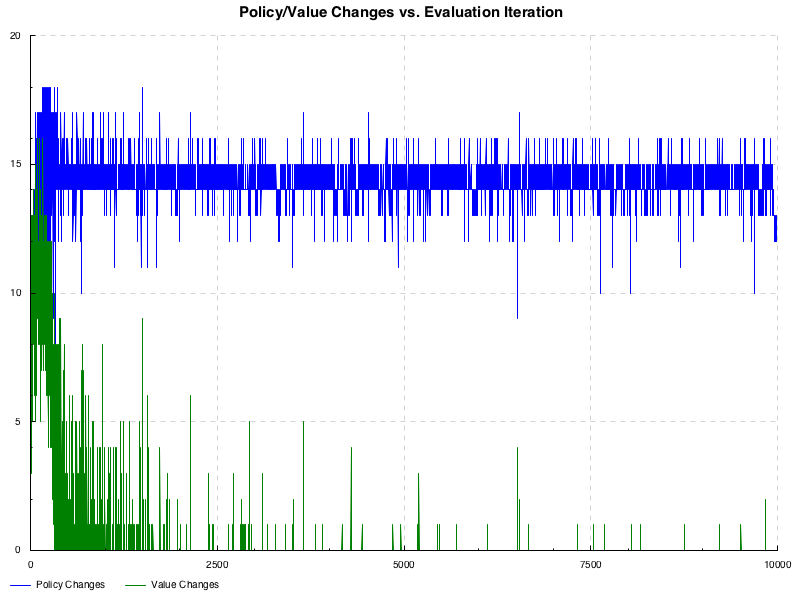
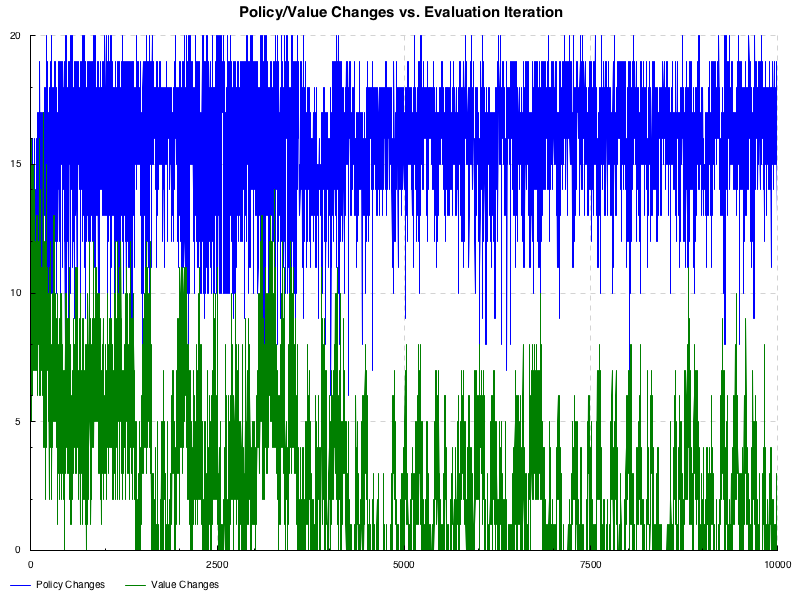
Windy grid w/ stochastic wind, but no kings moves.

diff --git a/windygrid.html b/windygrid.html
@@ -149,8 +149,8 @@ Original date: June 28, 2018</p>
 <a class="sourceLine" id="cb4-74" data-line-number="74">    <span class="kw">then</span> [s]</a>
 <a class="sourceLine" id="cb4-75" data-line-number="75">    <span class="kw">else</span> [ (min (gNumRows <span class="fu">-</span> <span class="dv">1</span>) (max <span class="dv">0</span> (r <span class="fu">+</span> dr <span class="fu">+</span> wr)), min (gNumCols <span class="fu">-</span> <span class="dv">1</span>) (max <span class="dv">0</span> (c <span class="fu">+</span> dc)))</a>
 <a class="sourceLine" id="cb4-76" data-line-number="76">         <span class="fu">|</span> wr <span class="ot">&lt;-</span> <span class="kw">if</span> wind <span class="fu">/=</span> <span class="dv">0</span></a>
-<a class="sourceLine" id="cb4-77" data-line-number="77">                    <span class="co">-- then [wind - 1, wind, wind + 1]</span></a>
-<a class="sourceLine" id="cb4-78" data-line-number="78">                    <span class="kw">then</span> [wind]  <span class="co">-- , wind, wind]</span></a>
+<a class="sourceLine" id="cb4-77" data-line-number="77">                    <span class="kw">then</span> [wind <span class="fu">-</span> <span class="dv">1</span>, wind, wind <span class="fu">+</span> <span class="dv">1</span>]</a>
+<a class="sourceLine" id="cb4-78" data-line-number="78">                    <span class="co">-- then [wind]  -- , wind, wind]</span></a>
 <a class="sourceLine" id="cb4-79" data-line-number="79">                    <span class="kw">else</span> [<span class="dv">0</span>]</a>
 <a class="sourceLine" id="cb4-80" data-line-number="80">         ]</a>
 <a class="sourceLine" id="cb4-81" data-line-number="81"> <span class="kw">where</span></a>
@@ -369,19 +369,19 @@ Original date: June 28, 2018</p>
 c|c|c|c|c|c|c|c|c|c
 |}
 \hline
- \downarrow  &amp;  \rightarrow  &amp;  \rightarrow  &amp;  \rightarrow  &amp;  \rightarrow  &amp;  \rightarrow  &amp;  \rightarrow  &amp;  \rightarrow  &amp;  \rightarrow  &amp;  \downarrow  \\
-\hline
  \rightarrow  &amp;  \rightarrow  &amp;  \rightarrow  &amp;  \rightarrow  &amp;  \rightarrow  &amp;  \rightarrow  &amp;  \rightarrow  &amp;  \rightarrow  &amp;  \rightarrow  &amp;  \downarrow  \\
 \hline
- \rightarrow  &amp;  \rightarrow  &amp;  \rightarrow  &amp;  \rightarrow  &amp;  \rightarrow  &amp;  \rightarrow  &amp;  \rightarrow  &amp;  \downarrow  &amp;  \rightarrow  &amp;  \downarrow  \\
+ \rightarrow  &amp;  \downarrow  &amp;  \rightarrow  &amp;  \rightarrow  &amp;  \rightarrow  &amp;  \rightarrow  &amp;  \rightarrow  &amp;  \rightarrow  &amp;  \rightarrow  &amp;  \downarrow  \\
+\hline
+ \downarrow  &amp;  \rightarrow  &amp;  \rightarrow  &amp;  \rightarrow  &amp;  \rightarrow  &amp;  \rightarrow  &amp;  \rightarrow  &amp;  \rightarrow  &amp;  \rightarrow  &amp;  \downarrow  \\
 \hline
 S &amp;  \rightarrow  &amp;  \rightarrow  &amp;  \rightarrow  &amp;  \rightarrow  &amp;  \rightarrow  &amp;  \rightarrow  &amp; G &amp;  \rightarrow  &amp;  \downarrow  \\
 \hline
- \rightarrow  &amp;  \rightarrow  &amp;  \rightarrow  &amp;  \rightarrow  &amp;  \rightarrow  &amp;  \rightarrow  &amp;  \uparrow  &amp;  \downarrow  &amp;  \leftarrow  &amp;  \leftarrow  \\
+ \rightarrow  &amp;  \rightarrow  &amp;  \rightarrow  &amp;  \rightarrow  &amp;  \rightarrow  &amp;  \rightarrow  &amp;  \rightarrow  &amp;  \downarrow  &amp;  \downarrow  &amp;  \downarrow  \\
 \hline
- \downarrow  &amp;  \rightarrow  &amp;  \rightarrow  &amp;  \rightarrow  &amp;  \rightarrow  &amp;  \uparrow  &amp;  \uparrow  &amp;  \downarrow  &amp;  \leftarrow  &amp;  \uparrow  \\
+ \uparrow  &amp;  \rightarrow  &amp;  \uparrow  &amp;  \uparrow  &amp;  \rightarrow  &amp;  \rightarrow  &amp;  \rightarrow  &amp;  \downarrow  &amp;  \rightarrow  &amp;  \leftarrow  \\
 \hline
- \downarrow  &amp;  \rightarrow  &amp;  \rightarrow  &amp;  \rightarrow  &amp;  \uparrow  &amp;  \uparrow  &amp;  \uparrow  &amp;  \uparrow  &amp;  \uparrow  &amp;  \leftarrow  \\
+ \leftarrow  &amp;  \rightarrow  &amp;  \rightarrow  &amp;  \rightarrow  &amp;  \rightarrow  &amp;  \rightarrow  &amp;  \rightarrow  &amp;  \downarrow  &amp;  \rightarrow  &amp;  \uparrow  \\
 \hline
 \end{array}\]</span>
 <h3 id="final-value-function">Final value function</h3>
@@ -389,19 +389,19 @@ S &amp;  \rightarrow  &amp;  \rightarrow  &amp;  \rightarrow  &amp;  \rightarrow
 c|c|c|c|c|c|c|c|c|c
 |}
 \hline
--15.8 &amp; -15.4 &amp; -14.4 &amp; -13.3 &amp; -12.1 &amp; -11.0 &amp; -9.8 &amp; -8.7 &amp; -7.5 &amp; -6.4 \\
+-50.9 &amp; -50.5 &amp; -40.4 &amp; -36.2 &amp; -34.1 &amp; -31.8 &amp; -31.0 &amp; -30.2 &amp; -29.5 &amp; -29.1 \\
 \hline
--16.3 &amp; -15.5 &amp; -14.4 &amp; -13.3 &amp; -12.1 &amp; -11.0 &amp; -9.8 &amp; -8.7 &amp; -7.5 &amp; -5.1 \\
+-43.4 &amp; -41.1 &amp; -39.6 &amp; -36.4 &amp; -32.9 &amp; -31.3 &amp; -30.2 &amp; -28.3 &amp; -27.8 &amp; -28.2 \\
 \hline
--16.7 &amp; -15.6 &amp; -14.4 &amp; -13.3 &amp; -12.1 &amp; -11.0 &amp; -9.8 &amp; -8.6 &amp; -6.4 &amp; -3.9 \\
+-40.7 &amp; -39.9 &amp; -36.9 &amp; -35.2 &amp; -32.9 &amp; -31.6 &amp; -29.3 &amp; -29.3 &amp; -27.9 &amp; -27.4 \\
 \hline
-S &amp; -15.6 &amp; -14.4 &amp; -13.3 &amp; -12.1 &amp; -10.9 &amp; -9.7 &amp; G &amp; -5.1 &amp; -2.6 \\
+S &amp; -37.3 &amp; -35.8 &amp; -34.2 &amp; -32.9 &amp; -32.8 &amp; -32.7 &amp; G &amp; -22.5 &amp; -26.4 \\
 \hline
--16.7 &amp; -15.6 &amp; -14.4 &amp; -13.3 &amp; -12.0 &amp; -10.7 &amp;  0.0 &amp;  0.0 &amp;  0.0 &amp; -1.4 \\
+-42.0 &amp; -39.8 &amp; -37.3 &amp; -35.0 &amp; -34.5 &amp; -35.0 &amp; -16.7 &amp; -14.9 &amp; -25.6 &amp; -24.7 \\
 \hline
--16.0 &amp; -15.2 &amp; -14.1 &amp; -13.0 &amp; -11.6 &amp;  0.0 &amp;  0.0 &amp; -0.6 &amp; -1.5 &amp; -2.6 \\
+-42.9 &amp; -41.4 &amp; -40.7 &amp; -39.4 &amp; -35.9 &amp; -31.4 &amp; -14.5 &amp; -23.2 &amp; -24.4 &amp; -23.9 \\
 \hline
--15.3 &amp; -14.5 &amp; -13.5 &amp; -12.6 &amp;  0.0 &amp;  0.0 &amp;  0.0 &amp;  0.0 &amp; -1.2 &amp; -2.2 \\
+-49.6 &amp; -42.9 &amp; -42.5 &amp; -38.4 &amp; -29.0 &amp; -25.9 &amp; -8.2 &amp; -17.5 &amp; -23.3 &amp; -23.4 \\
 \hline
 \end{array}\]</span>
 <h3 id="trajectory-of-final-policy">Trajectory of final policy</h3>
@@ -409,17 +409,17 @@ S &amp; -15.6 &amp; -14.4 &amp; -13.3 &amp; -12.1 &amp; -10.9 &amp; -9.7 &amp; G
 c|c|c|c|c|c|c|c|c|c
 |}
 \hline
- &amp;  &amp;  &amp;  &amp;  &amp;  &amp;  \cdot  &amp;  \cdot  &amp;  \cdot  &amp;  \cdot  \\
-\hline
- &amp;  &amp;  &amp;  &amp;  &amp;  \cdot  &amp;  &amp;  &amp;  &amp;  \cdot  \\
-\hline
- &amp;  &amp;  &amp;  &amp;  \cdot  &amp;  &amp;  &amp;  &amp;  &amp;  \cdot  \\
-\hline
-S &amp;  \cdot  &amp;  \cdot  &amp;  \cdot  &amp;  &amp;  &amp;  &amp; G &amp;  &amp;  \cdot  \\
+ &amp;  &amp;  &amp;  &amp;  &amp;  &amp;  &amp;  &amp;  &amp;  \\
 \hline
  &amp;  &amp;  &amp;  &amp;  &amp;  &amp;  &amp;  &amp;  \cdot  &amp;  \cdot  \\
 \hline
- &amp;  &amp;  &amp;  &amp;  &amp;  &amp;  &amp;  &amp;  &amp;  \\
+ &amp;  &amp;  &amp;  &amp;  &amp;  &amp;  &amp;  \cdot  &amp;  &amp;  \cdot  \\
+\hline
+S &amp;  \cdot  &amp;  \cdot  &amp;  \cdot  &amp;  \cdot  &amp;  \cdot  &amp;  \cdot  &amp; G &amp;  &amp;  \cdot  \\
+\hline
+ &amp;  &amp;  &amp;  &amp;  &amp;  &amp;  &amp;  &amp;  &amp;  \cdot  \\
+\hline
+ &amp;  &amp;  &amp;  &amp;  &amp;  &amp;  &amp;  &amp;  \cdot  &amp;  \cdot  \\
 \hline
  &amp;  &amp;  &amp;  &amp;  &amp;  &amp;  &amp;  &amp;  &amp;  \\
 \hline
@@ -434,7 +434,7 @@ S &amp;  \cdot  &amp;  \cdot  &amp;  \cdot  &amp;  &amp;  &amp;  &amp; G &amp;  
 Length dbgss[0]: 21<br />
 Next state total probabilities: min. = 0.0, max. = 1.0<br />
 Rewards: min. = -1.0, max. = 0.0<br />
-E[Q(s', a')]: min. = -16.851475417676784, max. = 0.0</p>
+E[Q(s', a')]: min. = -51.28883291346858, max. = 0.0</p>
 <hr />
 <div class="footer">
 <p>Powered by <a href="https://haskell-lang.org/">haskell</a>, <a href="https://docs.haskellstack.org/en/stable/README/">stack</a> and <a href="http://pandoc.org/">pandoc</a>.</p>
